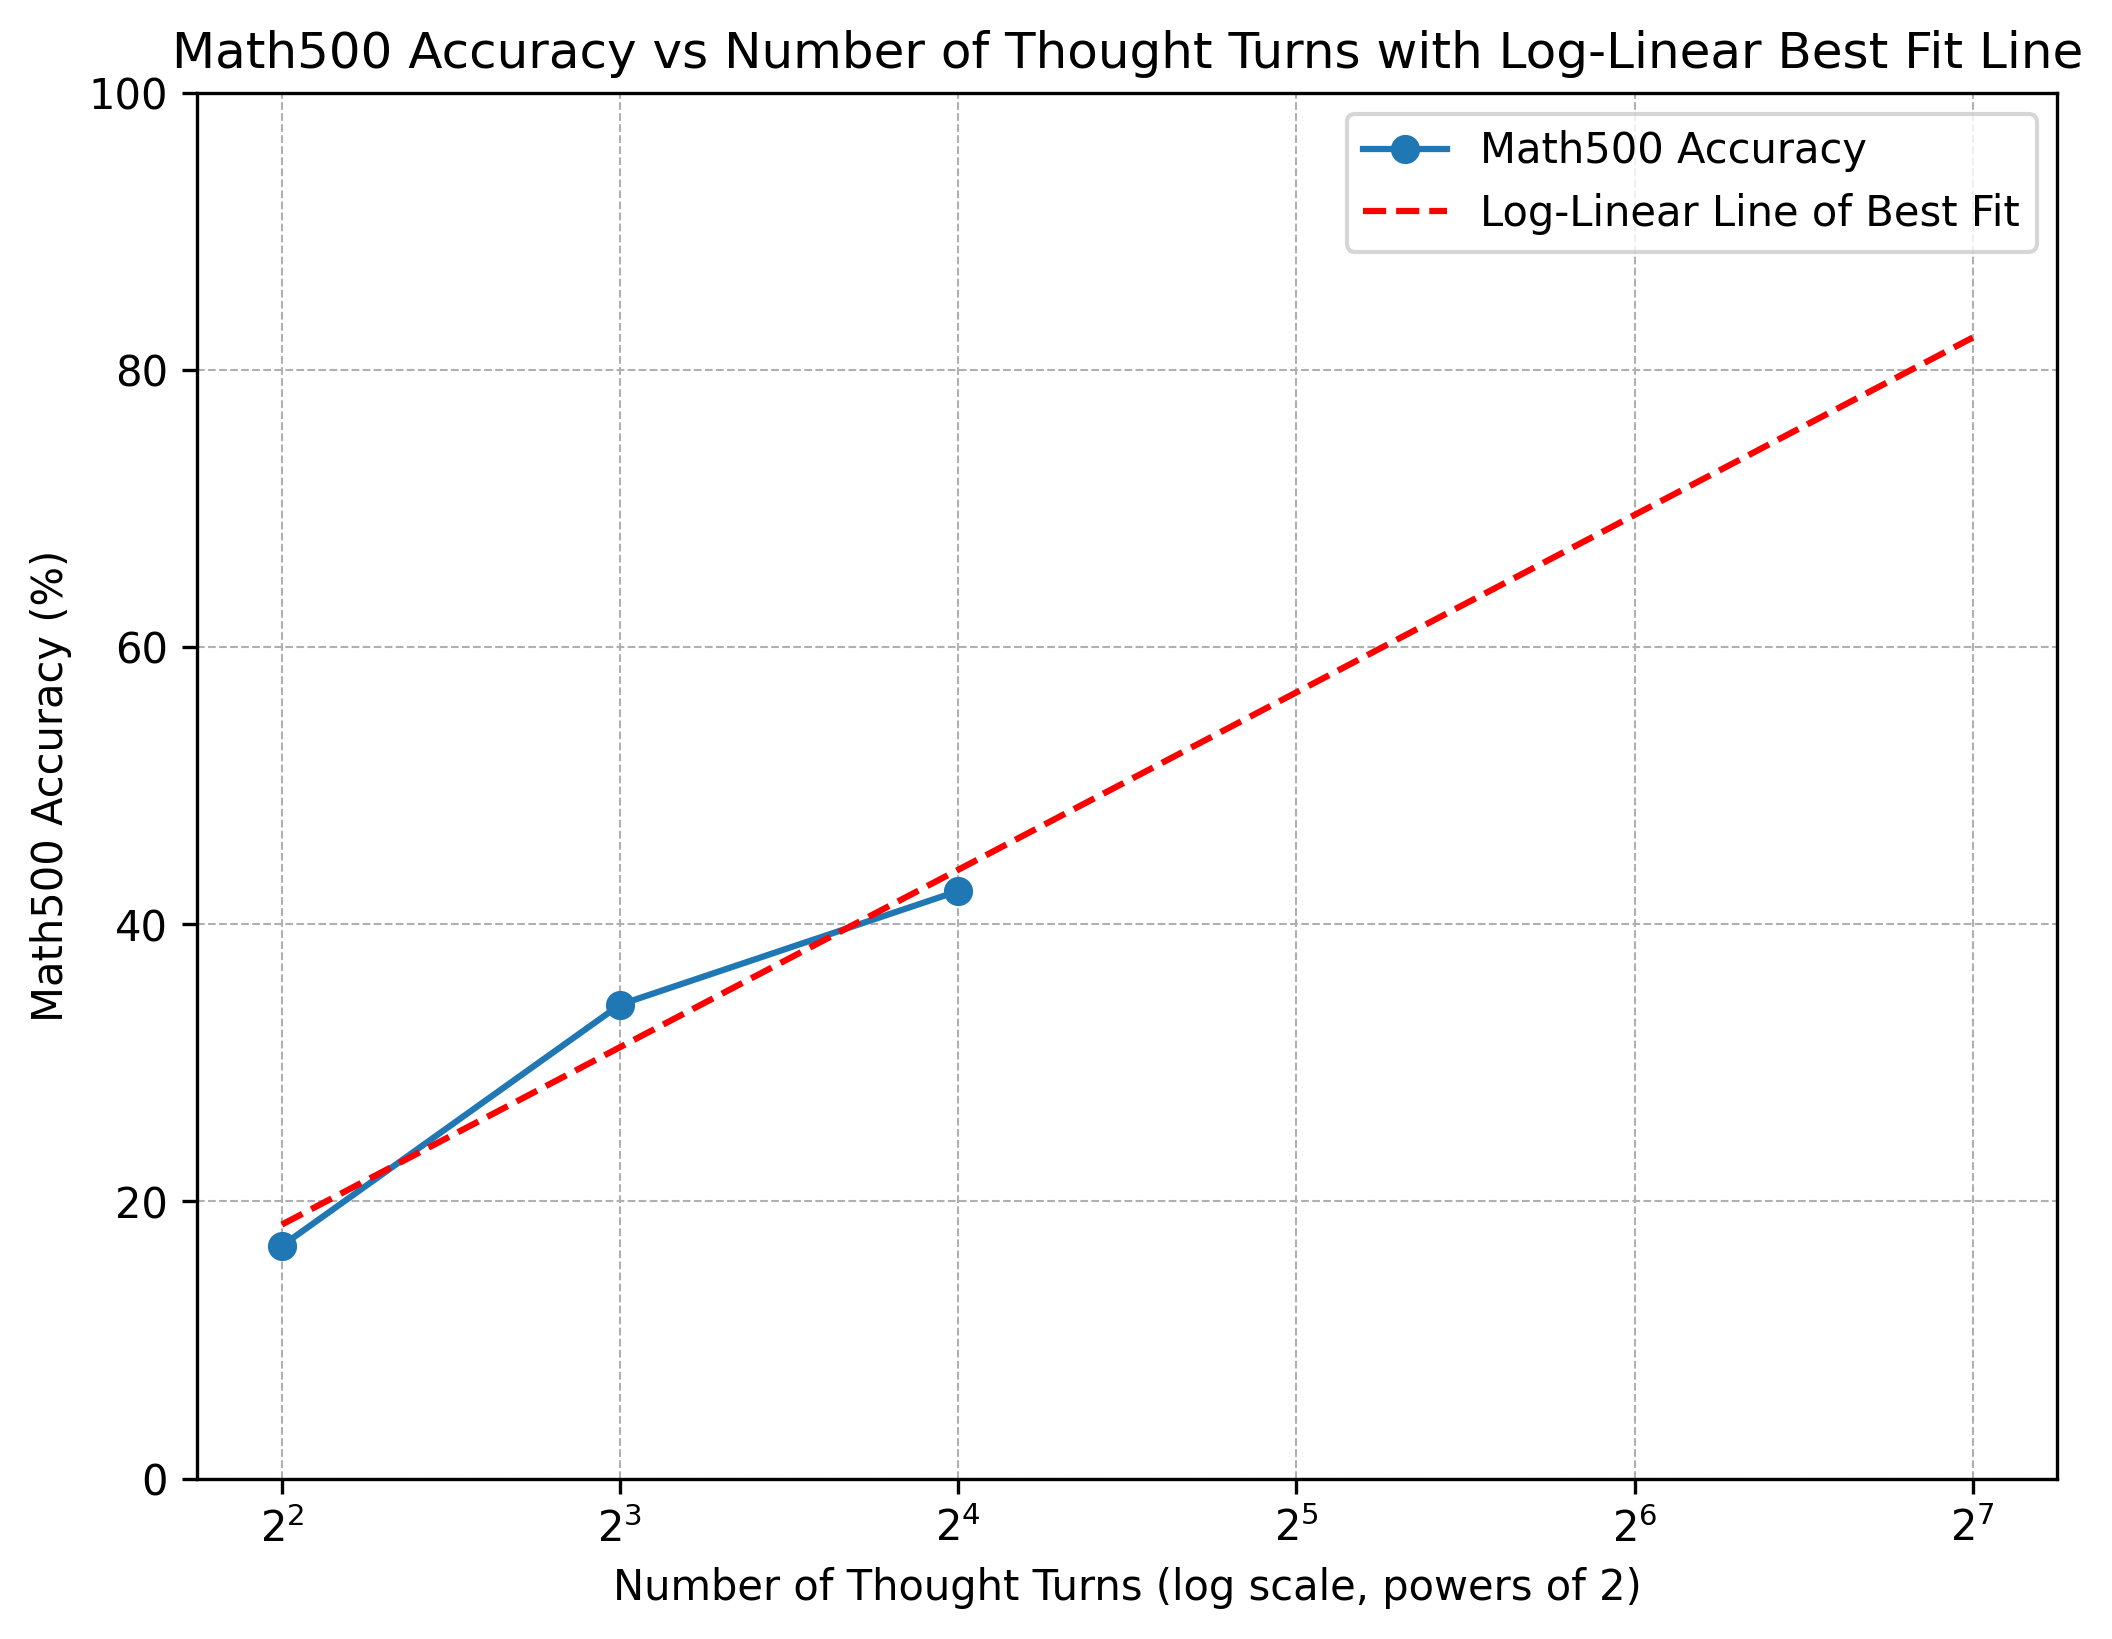
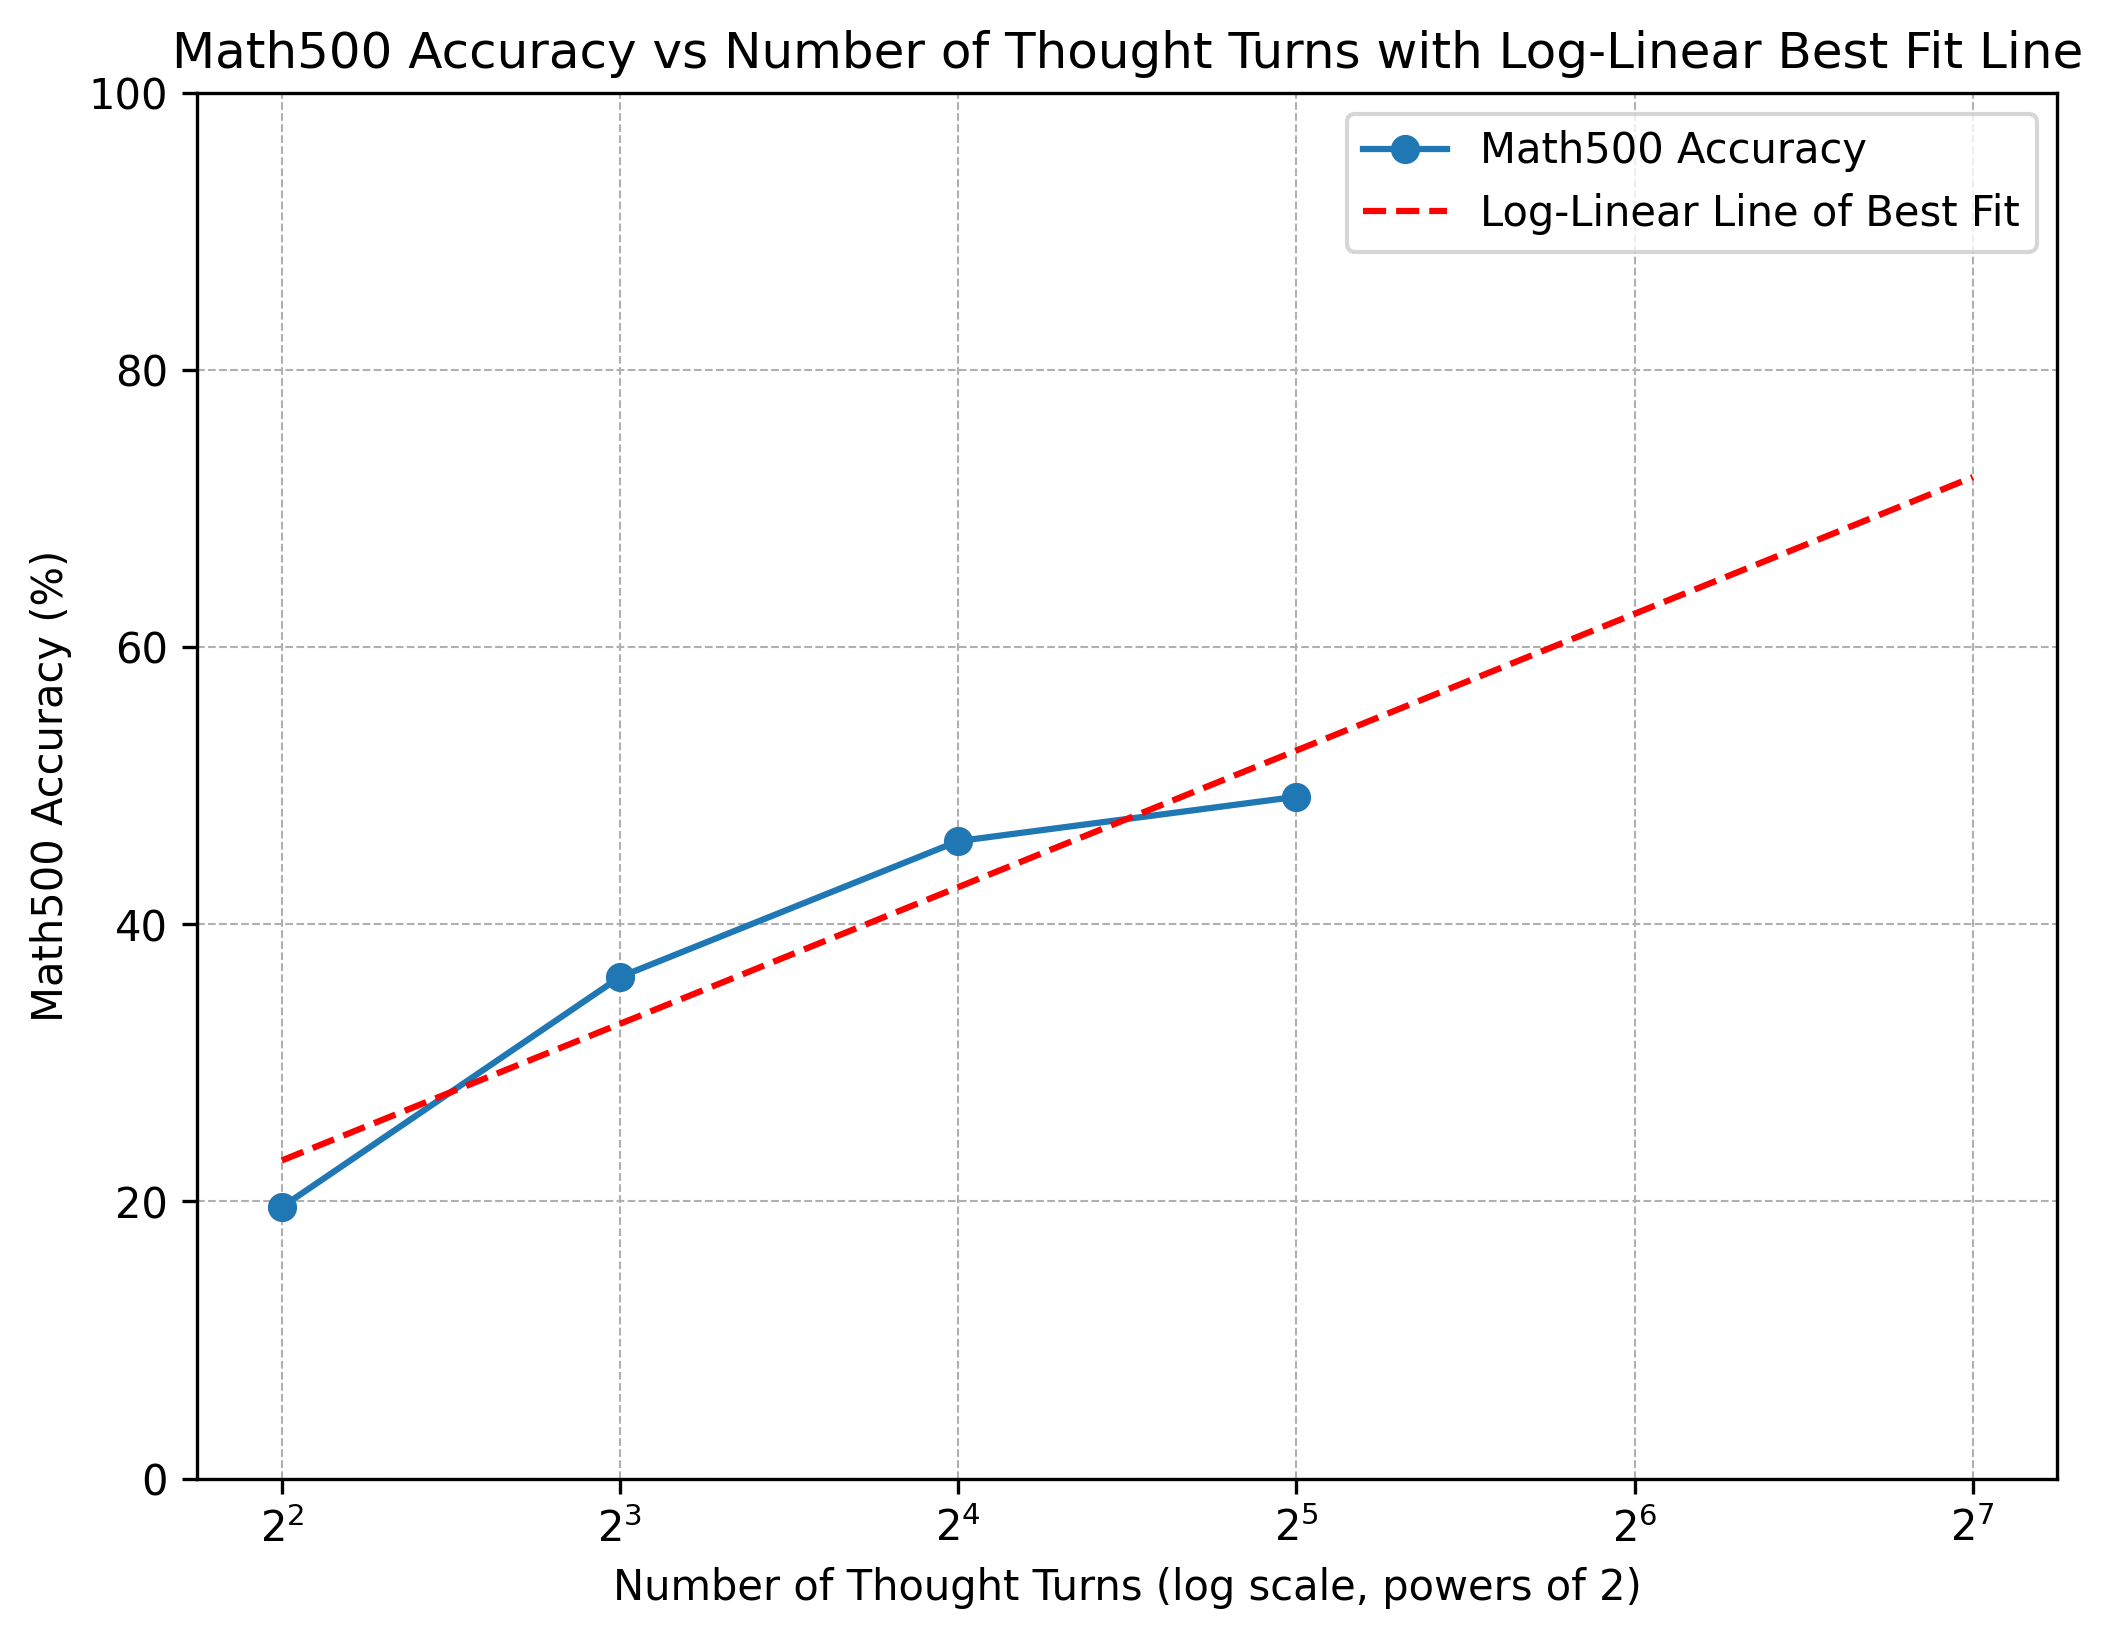
added batching

diff --git a/evaluation/math_eval_cpu.py b/evaluation/math_eval_cpu.py
@@ -39,6 +39,7 @@ def parse_args():
     parser.add_argument("--seed", default=0, type=int)
     parser.add_argument("--start", default=0, type=int)
     parser.add_argument("--end", default=-1, type=int)
+    parser.add_argument("--log_every", default=500, type=int)
     parser.add_argument("--temperature", default=0, type=float)
     parser.add_argument("--n_sampling", default=1, type=int)
     parser.add_argument("--top_p", default=1, type=float)
@@ -93,7 +94,7 @@ def prepare_data(data_name, args):
     dt_string = datetime.now().strftime("%m-%d_%H-%M")
     model_name = "/".join(args.model_name_or_path.split("/")[-2:])
     out_file_prefix = (
-        f"{args.split}_{args.prompt_type}_{args.num_test_sample}_seed{args.seed}_t{args.temperature}_{args.num_thought_turns}thoughts"
+        f"{args.split}_{args.prompt_type}_{args.num_test_sample}_seed{args.seed}_t{args.temperature}_thoughts{args.num_thought_turns}_w_plannerV1"
     )
     output_dir = args.output_dir
     if not os.path.exists(output_dir):
@@ -148,8 +149,7 @@ def generate_completions_inferencing_endpoint(model, prompts, args, max_retries=
             try:
                 start_time = time.time()
                 
-                assert(model is not None)
-                planner = Planner(user_message=prompt, model=model)
+                # planner = Planner(user_message=prompt, model=model)
                 assistant = Assistant(user_message=prompt, model=model)
                 
                 task = None
@@ -171,25 +171,25 @@ def generate_completions_inferencing_endpoint(model, prompts, args, max_retries=
                     # pp.pprint(conversation)
                     # print()
 
-                    # 1.0 Update next task
-                    planner_response = planner.continue_planning(assistant_thoughts)
-                    if "task: " in planner_response and "Rating: " in planner_response:
-                        task = planner_response.split("task: ")[1].strip()
-                        rating = planner_response.split("Rating: ")[1].split("\n")[0].strip()
-                    else:
-                        task = "No task provided"
-                        rating = "0"
-                    # print(f"\nNext task: {task}, Rating: {rating}")
-                    if rating == "-": # Only give user feedback if the rating is bad
-                        conversation.append({
-                            "role": "user",
-                            "content": [
-                                {"type": "text", "text": task},
-                            ]
-                        })
+                    # # 1.0 Update next task
+                    # planner_response = planner.continue_planning(assistant_thoughts)
+                    # if "task: " in planner_response and "Rating: " in planner_response:
+                    #     task = planner_response.split("task: ")[1].strip()
+                    #     rating = planner_response.split("Rating: ")[1].split("\n")[0].strip()
+                    # else:
+                    #     task = "No task provided"
+                    #     rating = "0"
+                    # # print(f"\nNext task: {task}, Rating: {rating}")
+                    # if rating == "-": # Only give user feedback if the rating is bad
+                    #     conversation.append({
+                    #         "role": "user",
+                    #         "content": [
+                    #             {"type": "text", "text": task},
+                    #         ]
+                    #     })
 
                     # 2.0 Assistant executes next task
-                    assistant_response = assistant.continue_thinking(conversation)
+                    assistant_response = assistant.continue_thinking(conversation, args.temperature)
                     conversation.append({
                         "role": "assistant",
                         "content": [
@@ -204,27 +204,11 @@ def generate_completions_inferencing_endpoint(model, prompts, args, max_retries=
                 # print(full_chain_of_thought + '\n')
                 
                 return index, full_chain_of_thought
-                
-                # messages = [{"role": "user", "content": prompt}]
-                
-                # # Run the inference call
-                # response = client.chat.completions.create(
-                #     model=args.model_name_or_path,
-                #     messages=messages,
-                #     temperature=args.temperature,
-                #     top_p=args.top_p,
-                #     max_tokens=args.max_tokens_per_call,
-                #     n=1
-                # )
-                
-                # # If successful, return the result
-                # text_output = response.choices[0].message.content.strip()
-                # return index, text_output
 
             except Exception as e:
                 print(f"Error in inference: {e}")
+                time.sleep(60 * (5**retries))
                 retries += 1
-                time.sleep(10)  # Optional: Add a short delay before retrying
 
         # If max retries reached, skip and return None for this index
         return index, ""
@@ -472,7 +456,12 @@ def setup(args):
     data_list = args.data_names.split(",")
     results = []
     for data_name in data_list:
-        results.append(main(model, data_name, args))
+        examples = load_data(data_name, args.split, args.data_dir)
+        for start in range(0, len(examples), args.log_every):
+            args.start = start
+            args.end = start + args.log_every
+            results.append(main(model, data_name, args))
+
 
     # Add "avg" result
     data_list.append("avg")

diff --git a/evaluation/models.py b/evaluation/models.py
@@ -83,10 +83,10 @@ class Assistant:
         self.system_prompt = f'''You are a helpful assistant'''
         self.model = model
 
-    def continue_thinking(self, conversation):
+    def continue_thinking(self, conversation, temperature=0.0):
         messages = conversation
        
-        assistant_response = self.model.generate(messages, stop="\n\n")
+        assistant_response = self.model.generate(messages, temperature, stop="\n\n")
 
         # print(f"\nAssistant response: {assistant_response}")
 
